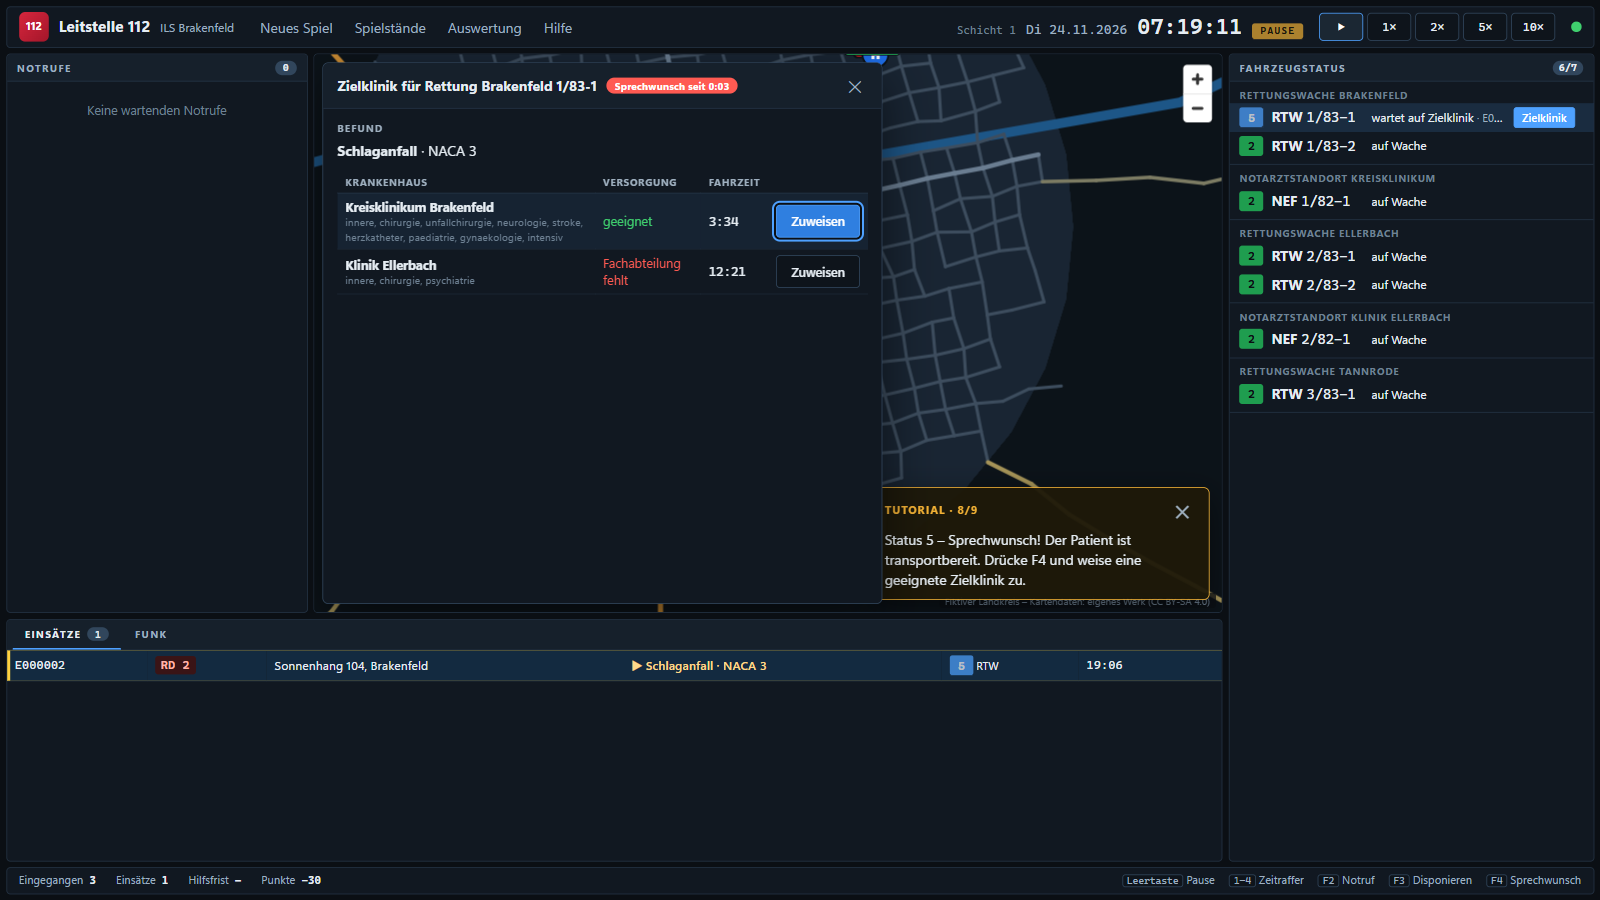
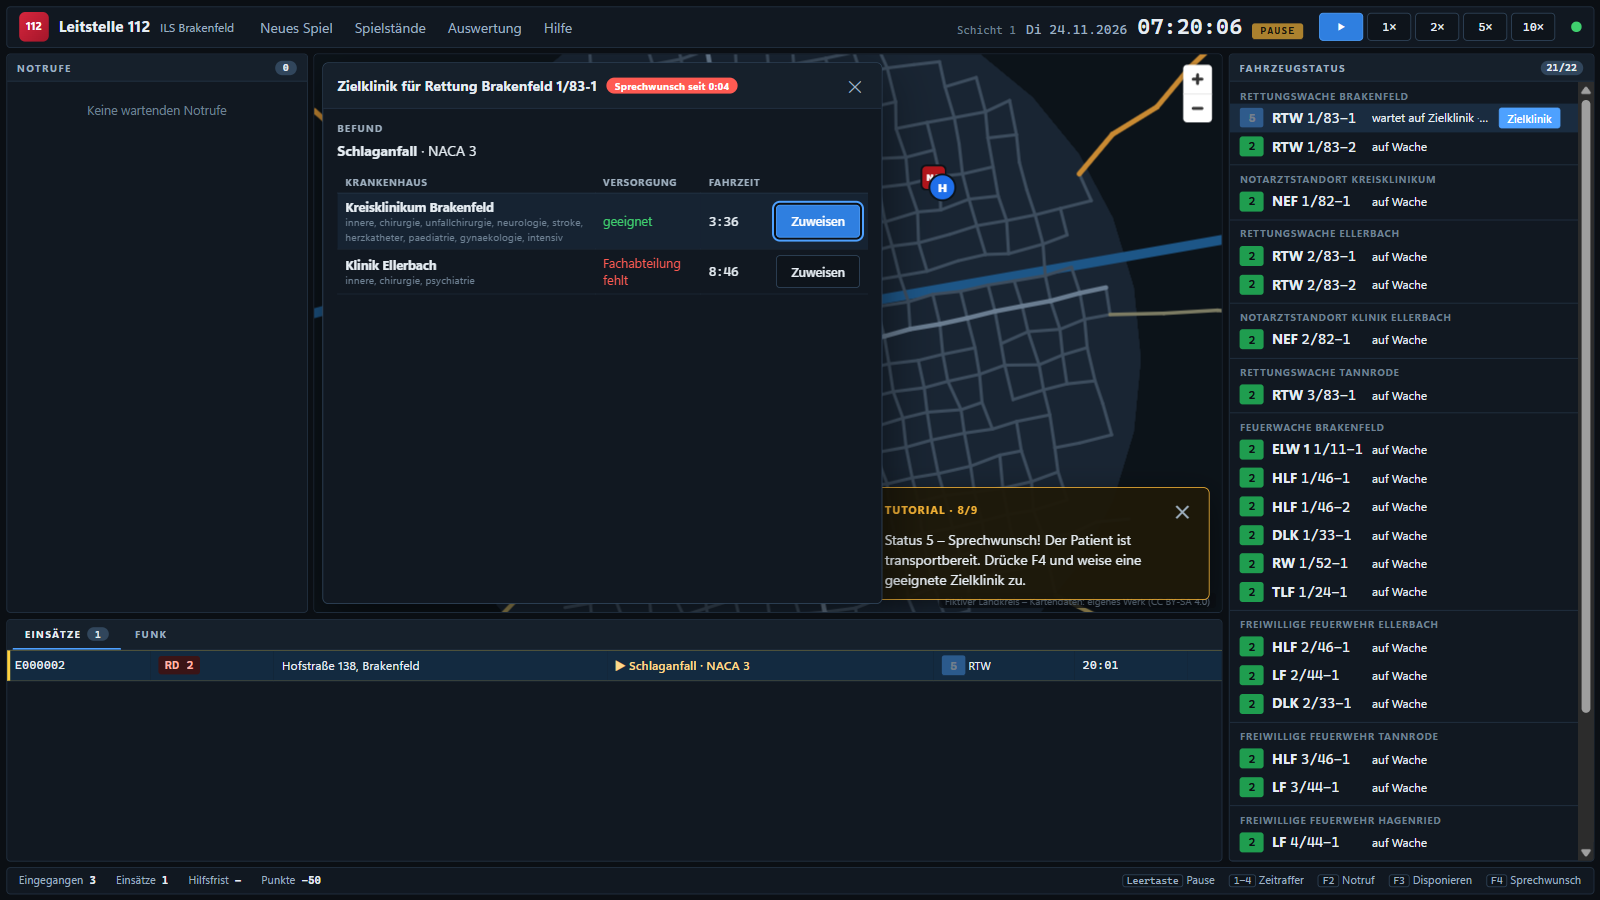
test(e2e): Fahrzeugliste mit Feuerwehr, Screenshots aktualisiert

diff --git a/e2e/app.spec.ts b/e2e/app.spec.ts
@@ -66,7 +66,8 @@ test('Startbildschirm und Tutorial', async () => {
   await page.getByTestId('start-tutorial').click();
   await expect(page.getByTestId('tutorial-coach')).toBeVisible();
   await expect(page.getByTestId('start-screen')).toBeHidden();
-  await expect(page.getByTestId('vehicle-row')).toHaveCount(7);
+  // 7 Rettungsdienst- und 15 Feuerwehrfahrzeuge.
+  await expect(page.getByTestId('vehicle-row')).toHaveCount(22);
 });
 
 test('Takt, Pause und Zeitraffer', async () => {
@@ -116,7 +117,7 @@ test('kompletter Einsatz: Notruf → Disposition → Anfahrt → Zielklinik', as
   await expect(dispatch).toBeHidden();
 
   await page.getByTestId('btn-speed-10').click();
-  await expect(page.getByTestId('vehicle-marker').first()).toBeVisible();
+  await expect(page.getByTestId('vehicle-marker').filter({ visible: true }).first()).toBeVisible();
   await page.getByTestId('tab-radio').click();
   await expect(page.getByTestId('event-log')).toContainText('Einsatz übernommen', {
     timeout: 30_000,
